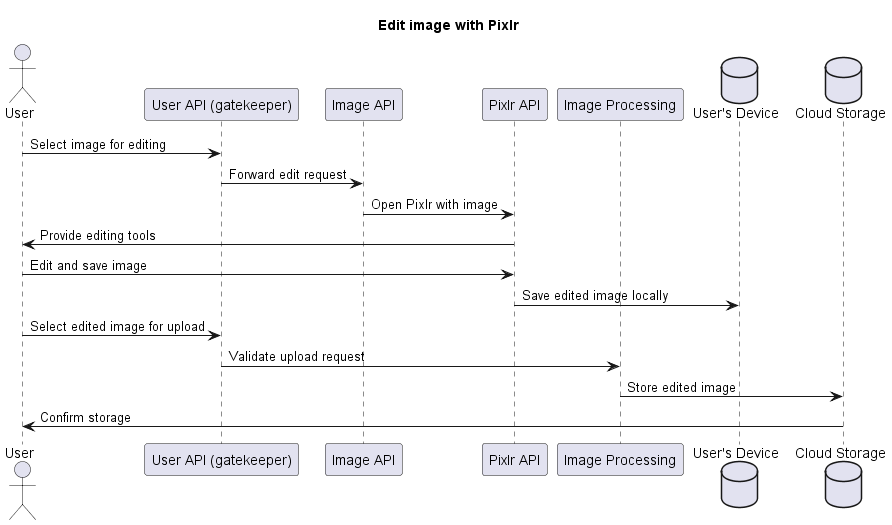
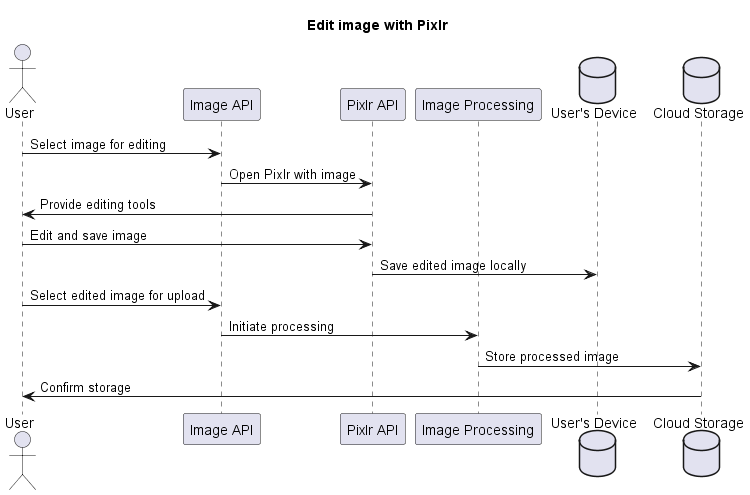
adjust sequence diagrams and technical context without gatekeeper api

diff --git a/arc42/arc42-template-EN.md b/arc42/arc42-template-EN.md
@@ -148,43 +148,6 @@ arc42 documentation.
 
 <div class="formalpara-title">
 
-**Contents**
-
-</div>
-
-System scope and context - as the name suggests - delimits your system
-(i.e. your scope) from all its communication partners (neighboring
-systems and users, i.e. the context of your system). It thereby
-specifies the external interfaces.
-
-If necessary, differentiate the business context (domain specific inputs
-and outputs) from the technical context (channels, protocols, hardware).
-
-<div class="formalpara-title">
-
-**Motivation**
-
-</div>
-
-The domain interfaces and technical interfaces to communication partners
-are among your system’s most critical aspects. Make sure that you
-completely understand them.
-
-<div class="formalpara-title">
-
-**Form**
-
-</div>
-
-Various options:
-
-- Context diagrams
-
-- Lists of communication partners and their interfaces.
-
-See [Context and Scope](https://docs.arc42.org/section-3/) in the arc42
-documentation.
-
 ## 3.1. Business Context
 
 <div class="formalpara-title">
@@ -352,13 +315,9 @@ documentation.
 
 ![Sequence diagram of image upload](images/Upload_seq.png)
 
-- The User API acts as a gatekeeper to ensure the user is valid
-
 ## User edits an image with Pixlr and uploads it
 
 ![Sequence diagram of profile update](images/Pixlr_seq.png)
-
-- The User API acts as a gatekeeper to ensure the user is valid and has a subscription
 
 <div style="page-break-after: always;"></div>
 
@@ -421,7 +380,7 @@ Our application follows a domain-driven design to allow developers and business 
 
 ### 8.5 "Under-the-Hood"
 
-- **Database and persistency:** AWS for hosting, taking advantage of their scalability and reliability.
+- **Database and persistency:** Cloud provider for hosting, taking advantage of their scalability and reliability.
 
 ### 8.6 Development Concepts
 
